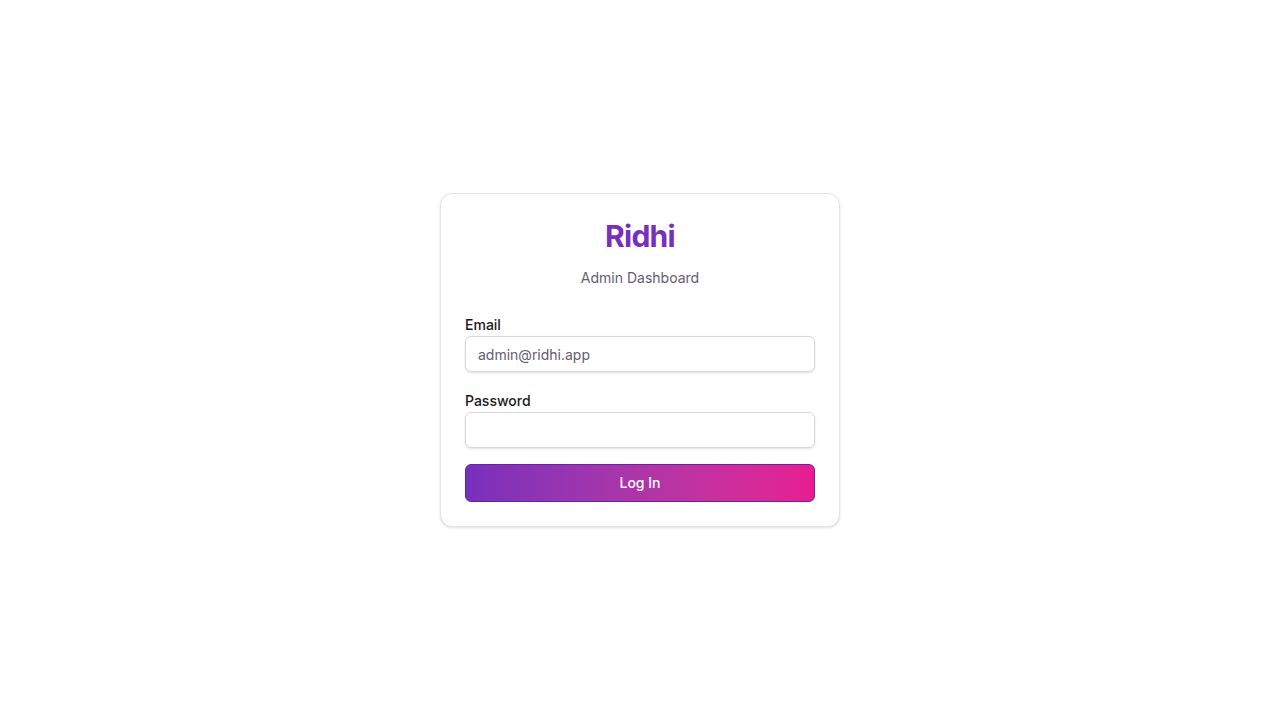
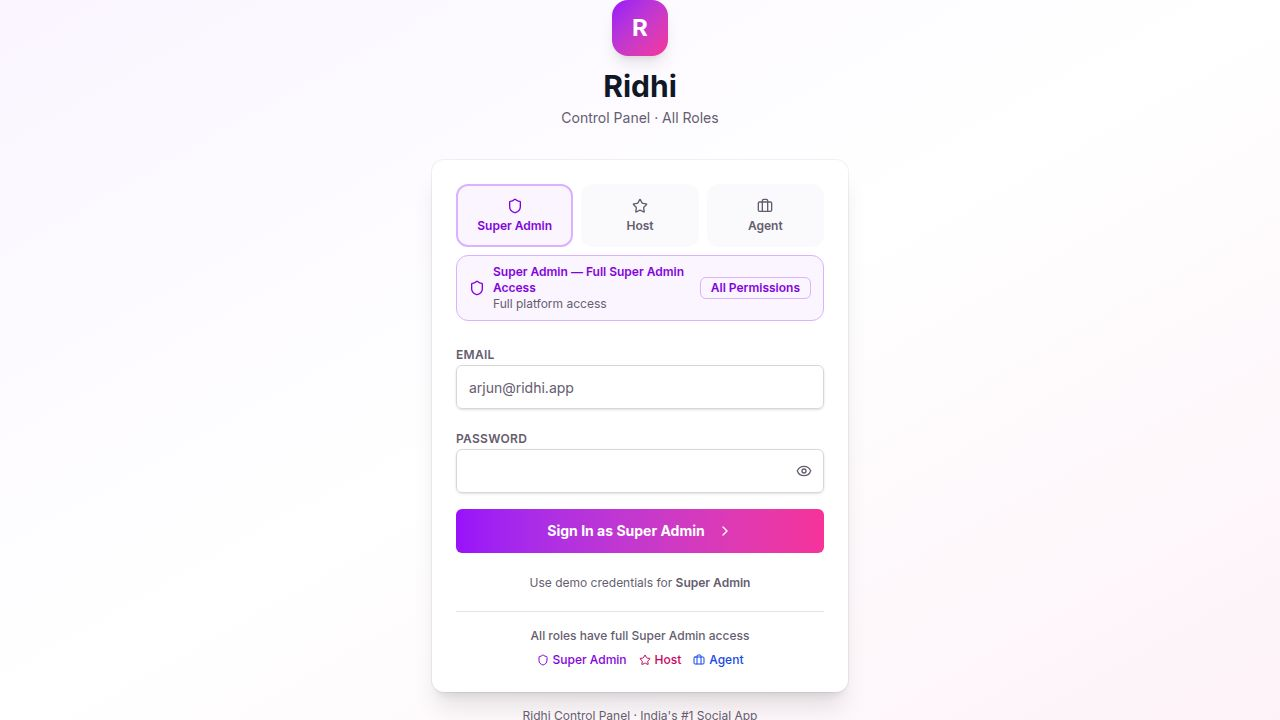
Make the local feed the default and enhance its trending content
Changes the default active tab to "Local" and enriches the local feed header with trending hashtags and top posts.

Replit-Commit-Author: Agent
Replit-Commit-Session-Id: c687aa38-e01e-4526-a1f0-b59c5aa7a5cc
Replit-Commit-Checkpoint-Type: full_checkpoint
Replit-Commit-Event-Id: 55888ade-620d-44a9-84b8-156c481aaeaf
Replit-Commit-Screenshot-Url: https://storage.googleapis.com/screenshot-production-us-central1/8f940257-4c4e-4549-a4a9-638a0d369b1e/c687aa38-e01e-4526-a1f0-b59c5aa7a5cc/7TwTPSu
Replit-Helium-Checkpoint-Created: true

diff --git a/artifacts/ridhi/app/(tabs)/index.tsx b/artifacts/ridhi/app/(tabs)/index.tsx
@@ -33,8 +33,22 @@ const AI_PICKS: Array<{ id: string; userName: string; reason: string; preview: s
 
 const LOGO = require("../../assets/images/ridhi_logo.png");
 
-const FEED_TABS = ["For You", "Local", "Trending", "Community", "Following"] as const;
+const FEED_TABS = ["Local", "For You", "Trending", "Community", "Following"] as const;
 type FeedTab = typeof FEED_TABS[number];
+
+const LOCAL_TRENDING_TAGS: Record<string, string[]> = {
+  Mumbai:    ["#MumbaiRains", "#MarathiManus", "#MumbaiStreetFood", "#DabbawalaLife", "#AmchiMumbai"],
+  Delhi:     ["#DilliHatke", "#DelhiFoods", "#DelhiDiaries", "#DilliWali", "#MetroLife"],
+  Bangalore: ["#NammaBengaluru", "#TechCity", "#BengaluruRains", "#KannadaOoru", "#GardenCity"],
+  Chennai:   ["#ChennaiLife", "#TamilCulture", "#MarinaDrive", "#BriyaniTime", "#NammaChennai"],
+  Hyderabad: ["#HyderabadiDum", "#NizamCity", "#TeluguVibes", "#PearlCity", "#Cyberabad"],
+  Kolkata:   ["#KolkataStreetFood", "#DurgaPuja", "#BengaliVibes", "#CityofJoy", "#EastIndia"],
+  Pune:      ["#PuneVibes", "#MarathiPride", "#PuneMonsoon", "#PunekarsOnly", "#FilmCity"],
+  Kochi:     ["#GodZone", "#MalayaliDiaries", "#BackwaterLife", "#KeralaTourism", "#KochiDiaries"],
+  Ahmedabad: ["#AmdavadVibes", "#GujaratiFood", "#NavratriSpecial", "#KhichdiDay", "#AavoAmdavad"],
+  Jaipur:    ["#PinkCity", "#RajasthanDiaries", "#JaipurFood", "#HeritageCraft", "#GharKiGali"],
+};
+const DEFAULT_TAGS = ["#RidhiIndia", "#DesiVibes", "#LocalTalent", "#IndianCreators", "#ShareYourStory"];
 
 const TRENDING_POSTS: Post[] = [
   {
@@ -127,7 +141,7 @@ export default function FeedScreen() {
   const { language: appLang } = useApp();
   const [posts, setPosts] = useState<Post[]>(INITIAL_POSTS);
   const [refreshing, setRefreshing] = useState(false);
-  const [activeTab, setActiveTab] = useState<FeedTab>("For You");
+  const [activeTab, setActiveTab] = useState<FeedTab>("Local");
 
   const topPad = Platform.OS === "web" ? 67 : insets.top;
   const bottomPad = Platform.OS === "web" ? 84 : 66;
@@ -151,6 +165,11 @@ export default function FeedScreen() {
   }, [posts, userCity]);
 
   const nearYouPosts = localPosts.slice(0, 5);
+  const trendingLocalPosts = useMemo(() =>
+    [...localPosts].sort((a, b) => b.likes - a.likes).slice(0, 6),
+    [localPosts]
+  );
+  const localTags = LOCAL_TRENDING_TAGS[userCity] ?? DEFAULT_TAGS;
 
   const headerAnim = useRef(new Animated.Value(0)).current;
   const liveIndicator = useRef(new Animated.Value(0.4)).current;
@@ -300,6 +319,7 @@ export default function FeedScreen() {
     if (activeTab === "Local") {
       return (
         <View style={styles.localBannerWrap}>
+          {/* City hero card */}
           <LinearGradient
             colors={[colors.secondary, colors.primary]}
             start={{ x: 0, y: 0 }}
@@ -317,15 +337,147 @@ export default function FeedScreen() {
                 </Text>
               </View>
             </View>
-            <View style={[styles.localBannerBadge, { backgroundColor: "rgba(255,255,255,0.22)" }]}>
-              <Text style={styles.localBannerBadgeText}>{localPosts.length} posts</Text>
+            <View style={{ alignItems: "flex-end", gap: 6 }}>
+              <View style={[styles.localBannerBadge, { backgroundColor: "rgba(255,255,255,0.22)" }]}>
+                <Text style={styles.localBannerBadgeText}>🔥 Trending</Text>
+              </View>
+              <Text style={{ color: "rgba(255,255,255,0.75)", fontSize: 11, fontFamily: "Inter_500Medium" }}>
+                {localPosts.length} local posts
+              </Text>
             </View>
           </LinearGradient>
-          <View style={[styles.localSubBanner, { backgroundColor: colors.secondary + "10", borderColor: colors.secondary + "30" }]}>
-            <Feather name="info" size={12} color={colors.secondary} />
-            <Text style={[styles.localSubBannerText, { color: colors.mutedForeground }]}>
-              Showing posts from <Text style={{ color: colors.secondary, fontFamily: "Inter_600SemiBold" }}>{userCity}</Text> and in <Text style={{ color: colors.secondary, fontFamily: "Inter_600SemiBold" }}>{userLang}</Text>
-            </Text>
+
+          {/* Trending hashtag chips */}
+          <View style={styles.trendTagsHeader}>
+            <Feather name="hash" size={13} color={colors.primary} />
+            <Text style={[styles.trendTagsTitle, { color: colors.foreground }]}>Trending in {userCity}</Text>
+          </View>
+          <ScrollView
+            horizontal
+            showsHorizontalScrollIndicator={false}
+            contentContainerStyle={styles.trendTagsScroll}
+          >
+            {localTags.map((tag, i) => (
+              <Pressable
+                key={tag}
+                onPress={() => router.push("/explore")}
+                style={[
+                  styles.trendTag,
+                  {
+                    backgroundColor: i === 0 ? colors.primary : colors.card,
+                    borderColor: i === 0 ? colors.primary : colors.border,
+                  },
+                ]}
+              >
+                {i === 0 && (
+                  <Text style={{ fontSize: 10 }}>🔥</Text>
+                )}
+                <Text style={[styles.trendTagText, { color: i === 0 ? "#fff" : colors.foreground }]}>
+                  {tag}
+                </Text>
+                {i === 0 && (
+                  <View style={[styles.trendTagHot, { backgroundColor: "rgba(255,255,255,0.25)" }]}>
+                    <Text style={{ color: "#fff", fontSize: 9, fontFamily: "Inter_700Bold" }}>HOT</Text>
+                  </View>
+                )}
+              </Pressable>
+            ))}
+          </ScrollView>
+
+          {/* Top trending local posts horizontal preview */}
+          {trendingLocalPosts.length > 0 && (
+            <View style={{ gap: 8 }}>
+              <View style={styles.trendTopHeader}>
+                <LinearGradient colors={[colors.destructive + "28", colors.primary + "18"]} style={styles.trendTopIcon}>
+                  <Feather name="trending-up" size={12} color={colors.destructive} />
+                </LinearGradient>
+                <Text style={[styles.trendTopTitle, { color: colors.foreground }]}>
+                  Top Posts in {userCity}
+                </Text>
+                <Pressable onPress={() => {}} style={[styles.seeAllBtn, { backgroundColor: colors.muted }]}>
+                  <Text style={[styles.seeAllText, { color: colors.primary }]}>See all</Text>
+                </Pressable>
+              </View>
+              <ScrollView
+                horizontal
+                showsHorizontalScrollIndicator={false}
+                contentContainerStyle={styles.trendTopScroll}
+              >
+                {trendingLocalPosts.map((post, idx) => (
+                  <Pressable
+                    key={post.id}
+                    style={[styles.trendTopCard, { backgroundColor: colors.card, borderColor: colors.border }]}
+                  >
+                    <LinearGradient
+                      colors={idx === 0
+                        ? [colors.destructive + "18", colors.primary + "08"]
+                        : [colors.secondary + "10", "transparent"]}
+                      style={StyleSheet.absoluteFill}
+                    />
+                    {/* Rank badge */}
+                    <View style={[
+                      styles.trendRankBadge,
+                      { backgroundColor: idx === 0 ? colors.destructive : idx === 1 ? colors.primary : colors.secondary }
+                    ]}>
+                      <Text style={styles.trendRankText}>#{idx + 1}</Text>
+                    </View>
+
+                    <View style={styles.trendTopCardTop}>
+                      <Avatar name={post.userName} size={26} />
+                      <View style={{ flex: 1 }}>
+                        <Text style={[styles.trendTopCardName, { color: colors.foreground }]} numberOfLines={1}>
+                          {post.userName}
+                        </Text>
+                        {post.userCity && (
+                          <View style={styles.nearYouCityRow}>
+                            <Feather name="map-pin" size={8} color={colors.secondary} />
+                            <Text style={[styles.nearYouCityText, { color: colors.secondary }]}>{post.userCity}</Text>
+                          </View>
+                        )}
+                      </View>
+                    </View>
+
+                    <Text style={[styles.trendTopCardContent, { color: colors.foreground }]} numberOfLines={3}>
+                      {post.content}
+                    </Text>
+
+                    {post.hashtags && post.hashtags.length > 0 && (
+                      <Text style={[styles.trendTopCardHashtag, { color: colors.primary }]} numberOfLines={1}>
+                        {post.hashtags[0]}
+                      </Text>
+                    )}
+
+                    <View style={styles.trendTopCardFooter}>
+                      <View style={styles.trendTopCardStat}>
+                        <Feather name="heart" size={11} color={colors.destructive} />
+                        <Text style={[styles.trendTopCardStatText, { color: colors.mutedForeground }]}>
+                          {post.likes >= 1000 ? `${(post.likes / 1000).toFixed(1)}k` : post.likes}
+                        </Text>
+                      </View>
+                      <View style={styles.trendTopCardStat}>
+                        <Feather name="message-circle" size={11} color={colors.mutedForeground} />
+                        <Text style={[styles.trendTopCardStatText, { color: colors.mutedForeground }]}>
+                          {post.comments}
+                        </Text>
+                      </View>
+                      <Text style={[styles.trendTopCardTime, { color: colors.mutedForeground }]}>
+                        {post.timeAgo}
+                      </Text>
+                    </View>
+                  </Pressable>
+                ))}
+              </ScrollView>
+            </View>
+          )}
+
+          {/* Divider with label */}
+          <View style={styles.allPostsDivider}>
+            <View style={[styles.allPostsDividerLine, { backgroundColor: colors.border }]} />
+            <View style={[styles.allPostsDividerLabel, { backgroundColor: colors.muted }]}>
+              <Feather name="list" size={11} color={colors.mutedForeground} />
+              <Text style={[styles.allPostsDividerText, { color: colors.mutedForeground }]}>All local posts</Text>
+            </View>
+            <View style={[styles.allPostsDividerLine, { backgroundColor: colors.border }]} />
           </View>
         </View>
       );
@@ -729,4 +881,94 @@ const styles = StyleSheet.create({
     fontSize: 14,
     fontFamily: "Inter_600SemiBold",
   },
+
+  // Trending hashtag chips
+  trendTagsHeader: {
+    flexDirection: "row",
+    alignItems: "center",
+    gap: 6,
+    paddingHorizontal: 4,
+    paddingTop: 12,
+    paddingBottom: 6,
+  },
+  trendTagsTitle: { fontSize: 13, fontFamily: "Inter_700Bold" },
+  trendTagsScroll: { gap: 8, paddingBottom: 4 },
+  trendTag: {
+    flexDirection: "row",
+    alignItems: "center",
+    gap: 5,
+    paddingHorizontal: 12,
+    paddingVertical: 7,
+    borderRadius: 20,
+    borderWidth: 1,
+  },
+  trendTagText: { fontSize: 12, fontFamily: "Inter_600SemiBold" },
+  trendTagHot: {
+    paddingHorizontal: 5,
+    paddingVertical: 2,
+    borderRadius: 6,
+  },
+
+  // Top trending local posts
+  trendTopHeader: {
+    flexDirection: "row",
+    alignItems: "center",
+    gap: 8,
+    paddingHorizontal: 4,
+    paddingTop: 14,
+  },
+  trendTopIcon: {
+    width: 24,
+    height: 24,
+    borderRadius: 8,
+    alignItems: "center",
+    justifyContent: "center",
+  },
+  trendTopTitle: { fontSize: 13, fontFamily: "Inter_700Bold", flex: 1 },
+  trendTopScroll: { gap: 10, paddingBottom: 4, paddingTop: 4 },
+  trendTopCard: {
+    width: 190,
+    borderRadius: 16,
+    borderWidth: 1,
+    padding: 12,
+    gap: 8,
+    overflow: "hidden",
+    position: "relative",
+  },
+  trendRankBadge: {
+    position: "absolute",
+    top: 10,
+    right: 10,
+    paddingHorizontal: 7,
+    paddingVertical: 3,
+    borderRadius: 8,
+  },
+  trendRankText: { color: "#fff", fontSize: 10, fontFamily: "Inter_700Bold" },
+  trendTopCardTop: { flexDirection: "row", alignItems: "center", gap: 8, paddingRight: 28 },
+  trendTopCardName: { fontSize: 12, fontFamily: "Inter_600SemiBold" },
+  trendTopCardContent: { fontSize: 12, fontFamily: "Inter_400Regular", lineHeight: 17 },
+  trendTopCardHashtag: { fontSize: 11, fontFamily: "Inter_600SemiBold" },
+  trendTopCardFooter: { flexDirection: "row", alignItems: "center", gap: 8, marginTop: 2 },
+  trendTopCardStat: { flexDirection: "row", alignItems: "center", gap: 3 },
+  trendTopCardStatText: { fontSize: 11, fontFamily: "Inter_500Medium" },
+  trendTopCardTime: { fontSize: 10, fontFamily: "Inter_400Regular", marginLeft: "auto" },
+
+  // All posts divider
+  allPostsDivider: {
+    flexDirection: "row",
+    alignItems: "center",
+    gap: 8,
+    paddingTop: 16,
+    paddingBottom: 4,
+  },
+  allPostsDividerLine: { flex: 1, height: StyleSheet.hairlineWidth },
+  allPostsDividerLabel: {
+    flexDirection: "row",
+    alignItems: "center",
+    gap: 5,
+    paddingHorizontal: 10,
+    paddingVertical: 5,
+    borderRadius: 12,
+  },
+  allPostsDividerText: { fontSize: 11, fontFamily: "Inter_500Medium" },
 });